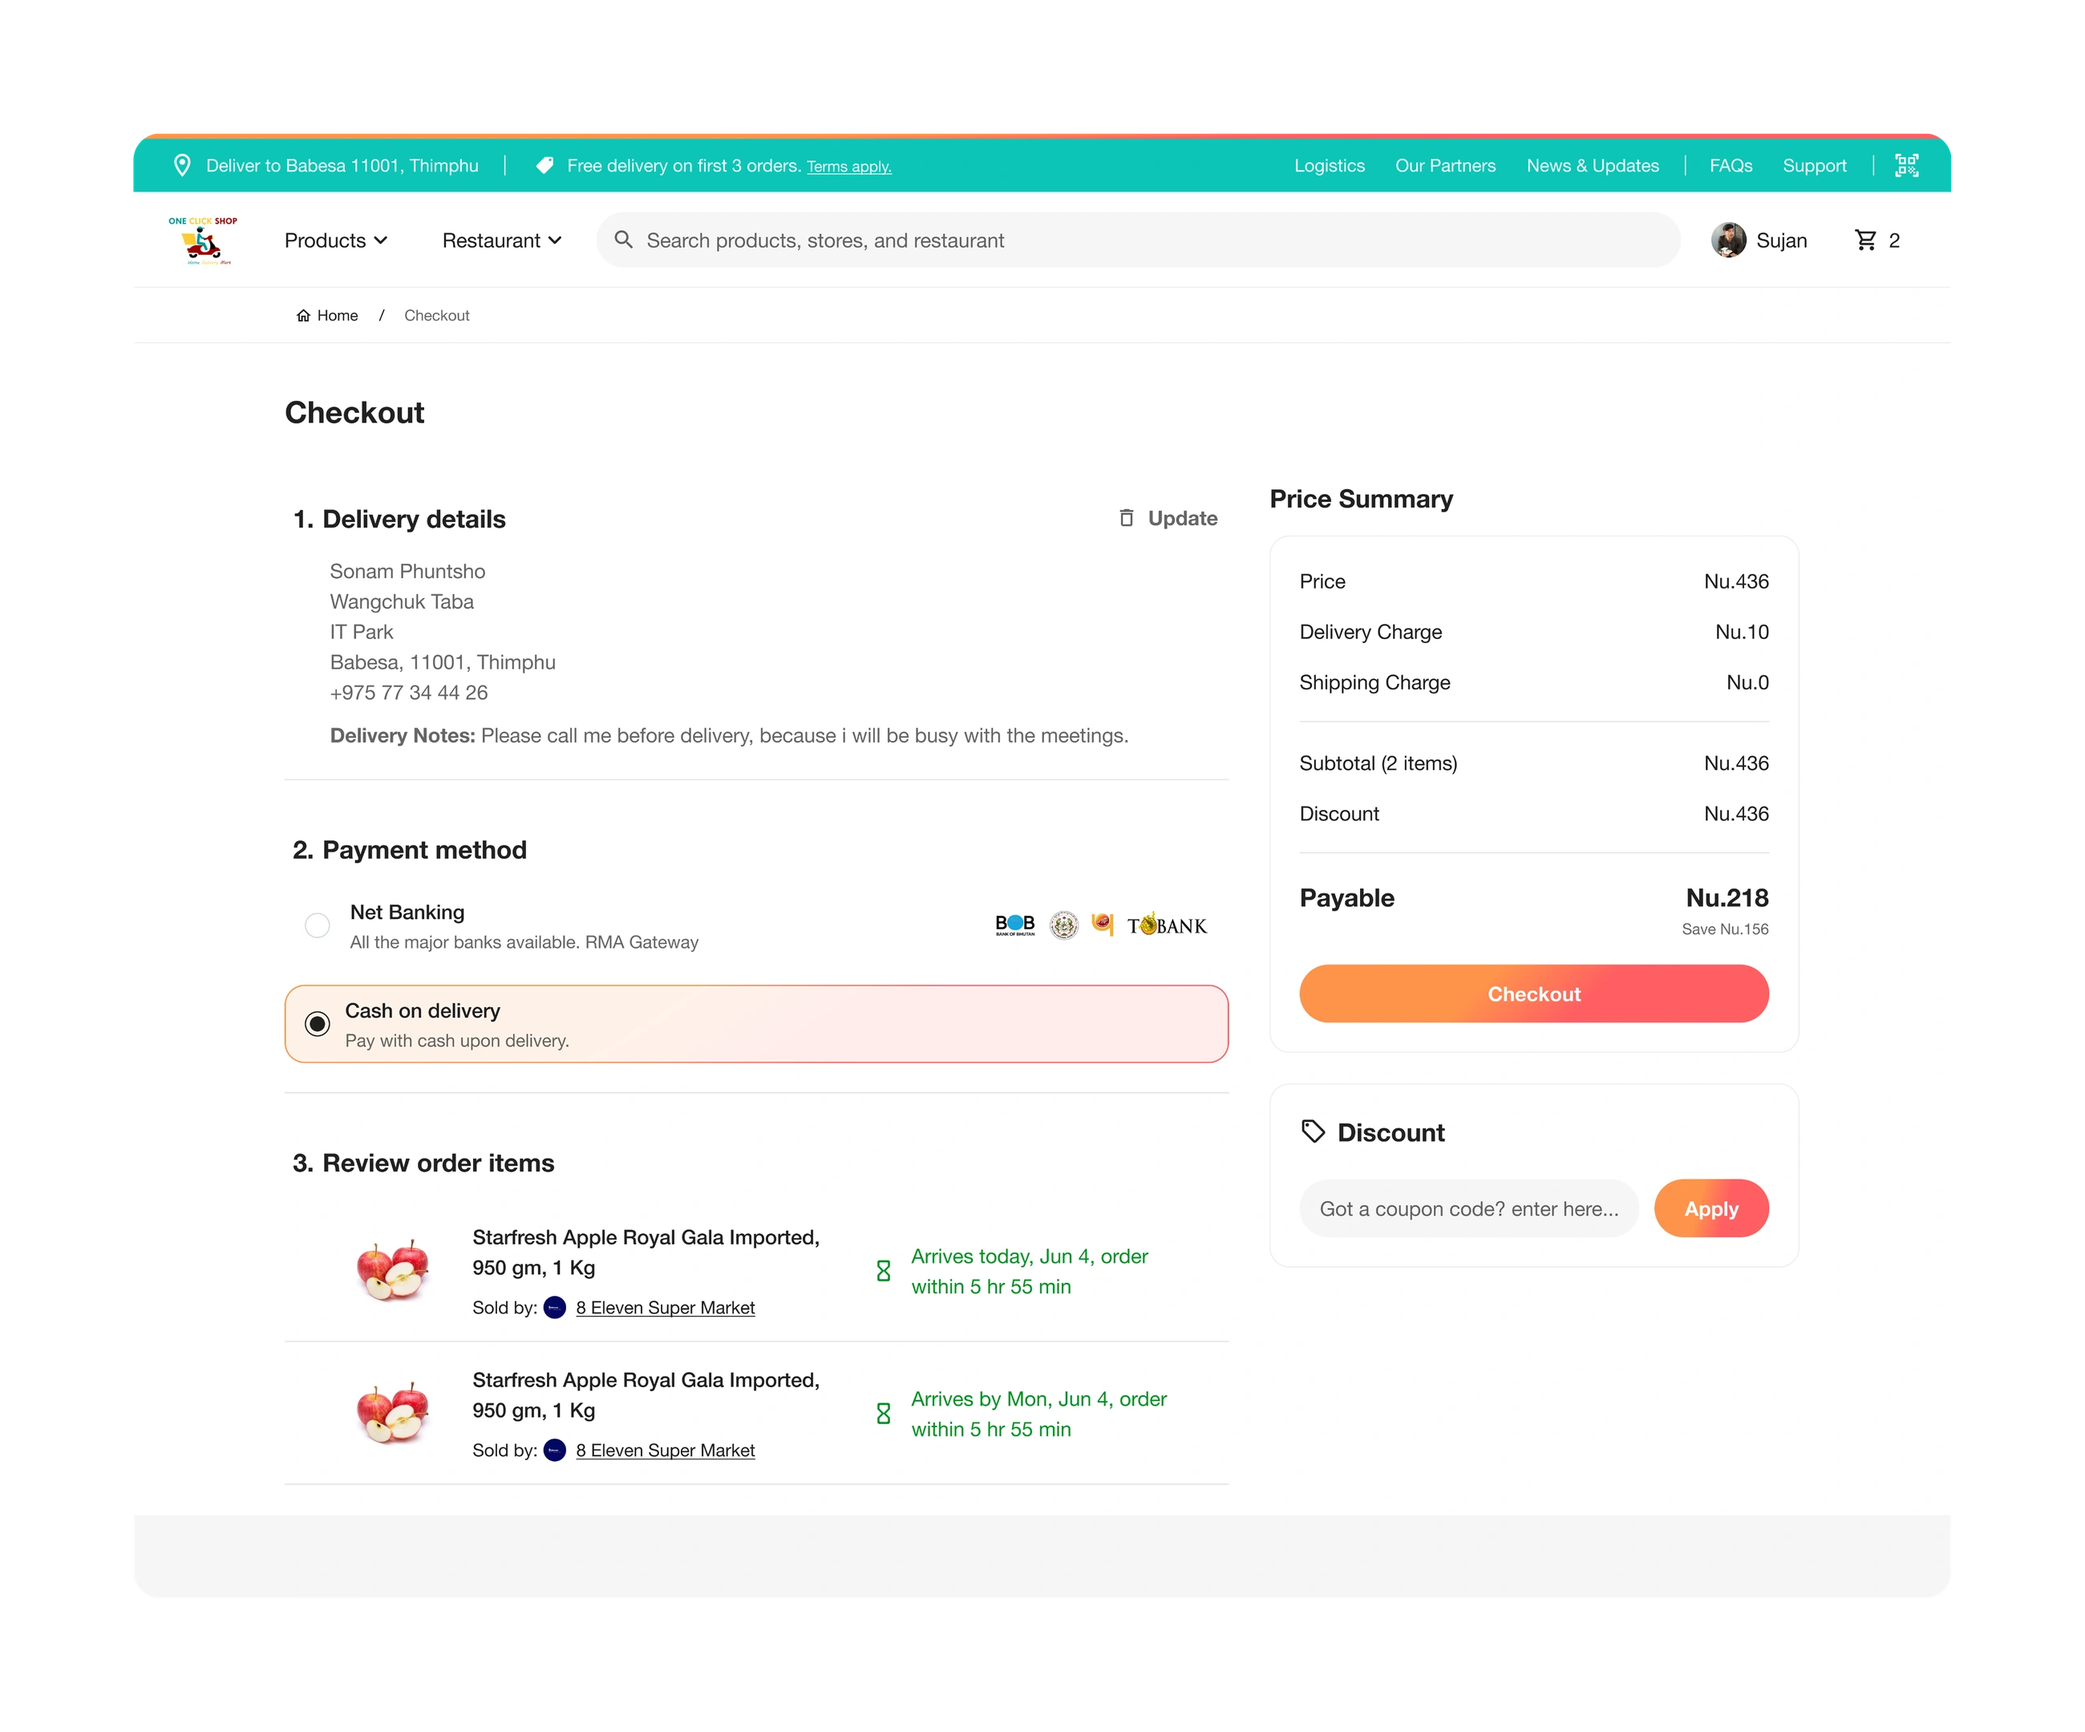
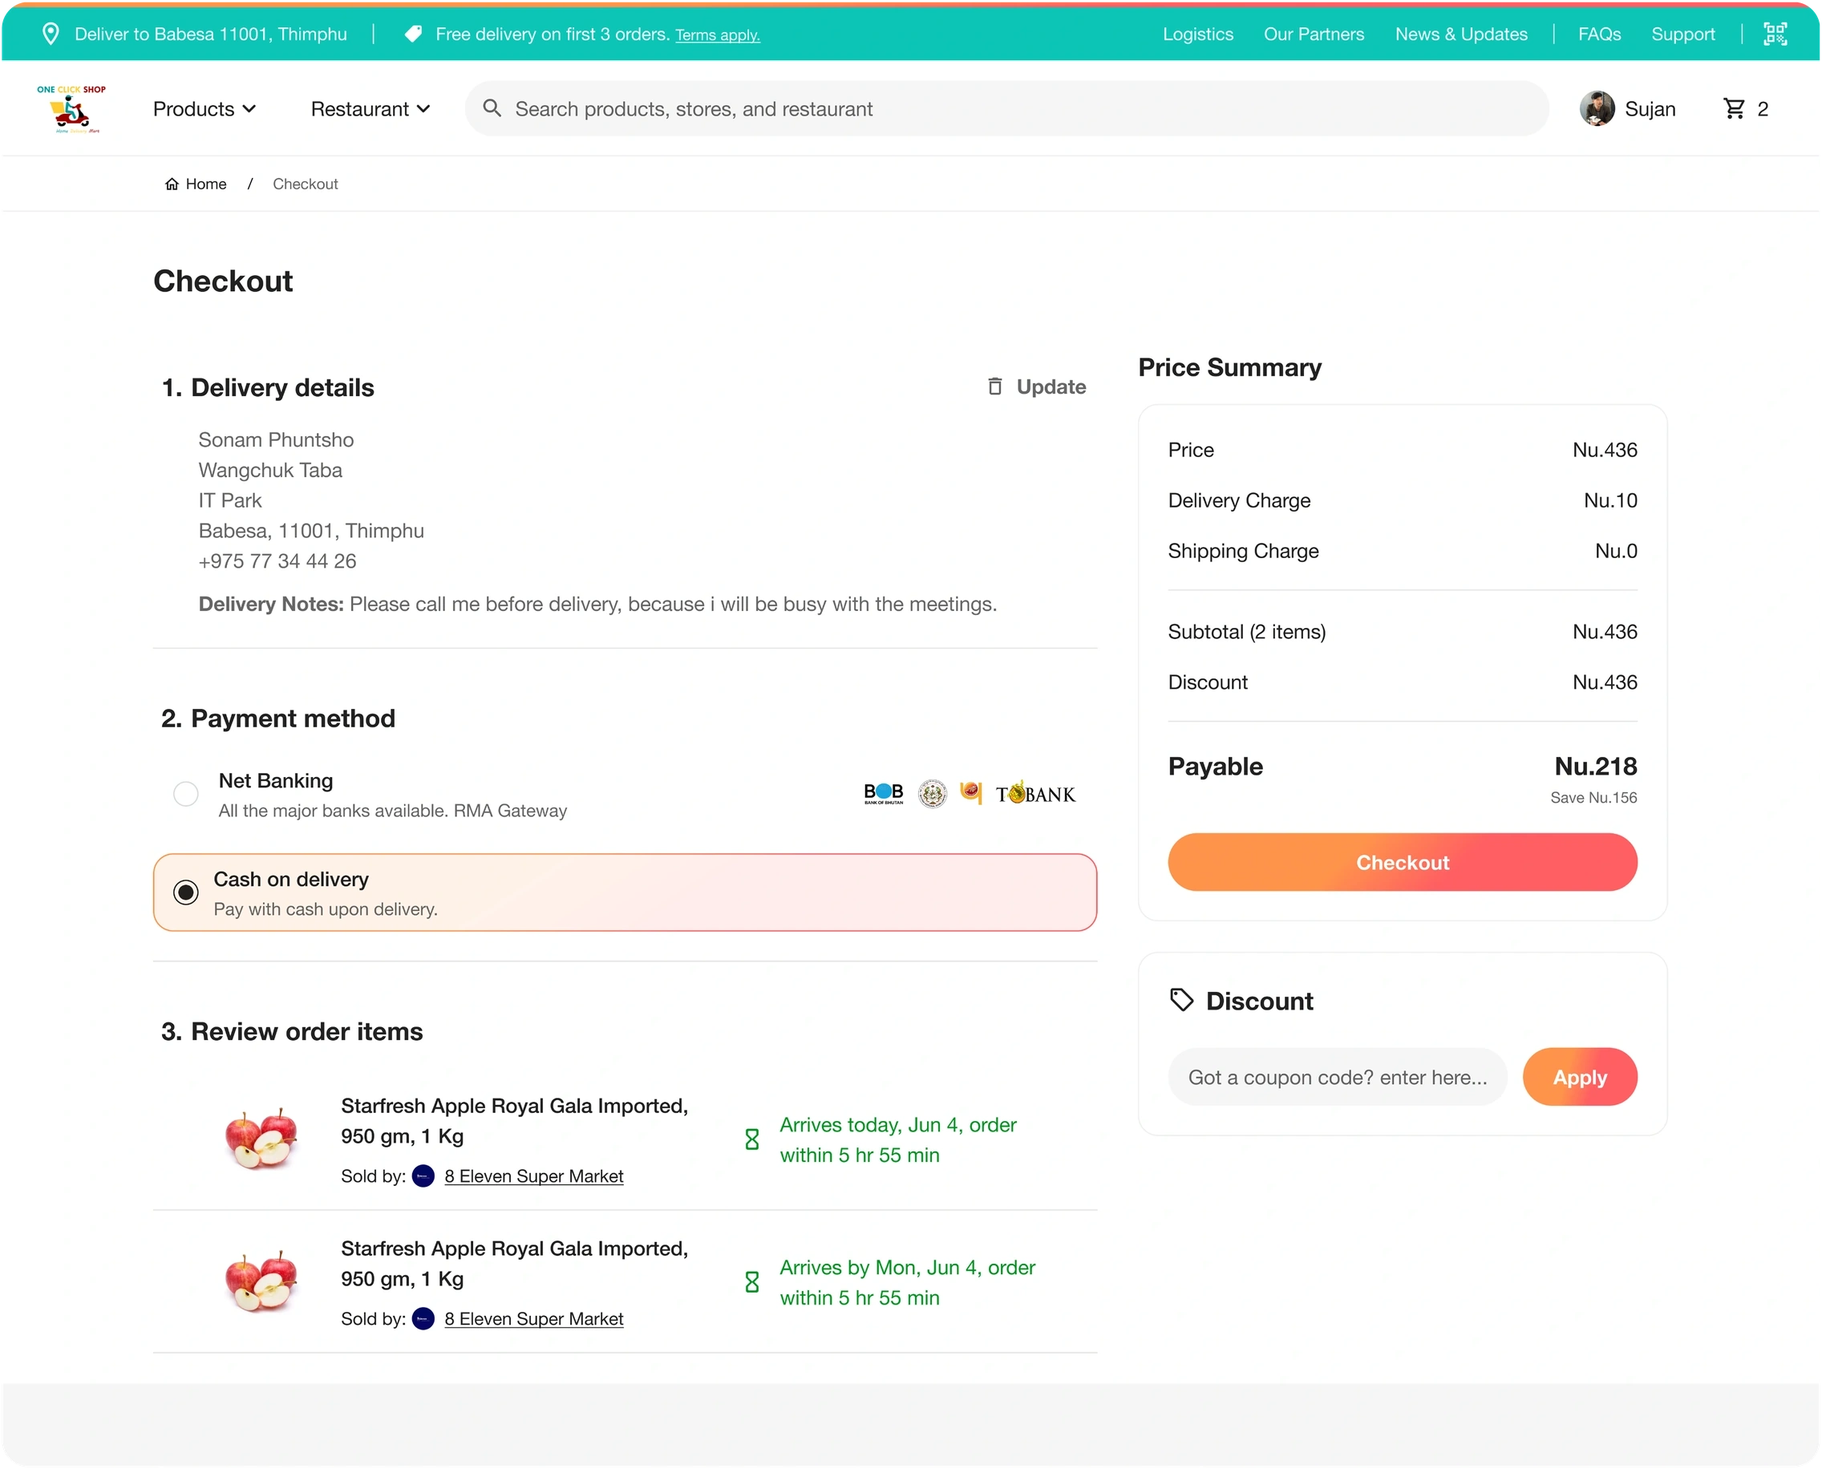
Fix hover preview anchoring, add form validation, even out panel spacing
- Hover preview was inside a scroll-reveal wrapper whose CSS transform
  made position:fixed resolve against that element instead of the
  viewport, so it drifted to the bottom of the page. Moved it to the
  body and clamped it to stay fully on screen at every edge.
- Contact form now validates name, email format, and message inline
  before submitting, and the access key reads from PUBLIC_WEB3FORMS_KEY
  so delivery can be switched on without a code change
- Removed the Email pill from the contact links; the form replaces it
- Trimmed the transparent margin baked into every screenshot (6.3% on
  the sides) so panel inset and the gap between screens are now one
  value and read evenly on all four sides
- Panels sit 20px apart, matching the original, with generous space
  around the Problem / What I did / Approach text
- Work list on mobile leads with the cover image instead of a thumbnail
- Compact prev/next cards instead of oversized covers
- Base body size set to 18px

diff --git a/src/styles/global.css b/src/styles/global.css
@@ -54,10 +54,27 @@ html {
   background: linear-gradient(90deg, #f9fafb, #e5e7eb, #f9fafb);
 }
 
+/* Images are trimmed of transparent margin, so all spacing is set here.
+   --showcase-pad is used for both the panel inset and the gap between
+   screens so the spacing reads evenly on all four sides. */
+:root {
+  --showcase-pad: 24px;
+}
+
+@media (min-width: 768px) {
+  :root {
+    --showcase-pad: 44px;
+  }
+}
+
+.showcase-panel {
+  padding: var(--showcase-pad);
+}
+
 /* Flat screens flow into two uneven columns, as on the original */
 .showcase-masonry {
   column-count: 1;
-  column-gap: 0;
+  column-gap: var(--showcase-pad);
 }
 
 @media (min-width: 768px) {
@@ -68,13 +85,24 @@ html {
 
 .showcase-masonry > * {
   break-inside: avoid;
-  margin-bottom: 0;
+  margin-bottom: var(--showcase-pad);
+}
+
+/* Text sections get room to breathe against the adjacent screens */
+.prose-case p + .full-bleed,
+.prose-case ul + .full-bleed {
+  margin-top: 5rem;
+}
+
+.prose-case .full-bleed + h2 {
+  margin-top: 5rem;
 }
 
 body {
   background: var(--color-paper);
   color: var(--color-ink);
   font-family: var(--font-sans);
+  font-size: 18px;
   -webkit-font-smoothing: antialiased;
 }
 
@@ -97,9 +125,11 @@ body {
     transform 0.6s cubic-bezier(0.16, 1, 0.3, 1);
 }
 
+/* transform:none (not translateY(0)) so the revealed section stops being a
+   containing block for fixed-position children */
 [data-reveal].is-visible {
   opacity: 1;
-  transform: translateY(0);
+  transform: none;
 }
 
 @media (prefers-reduced-motion: reduce) {
